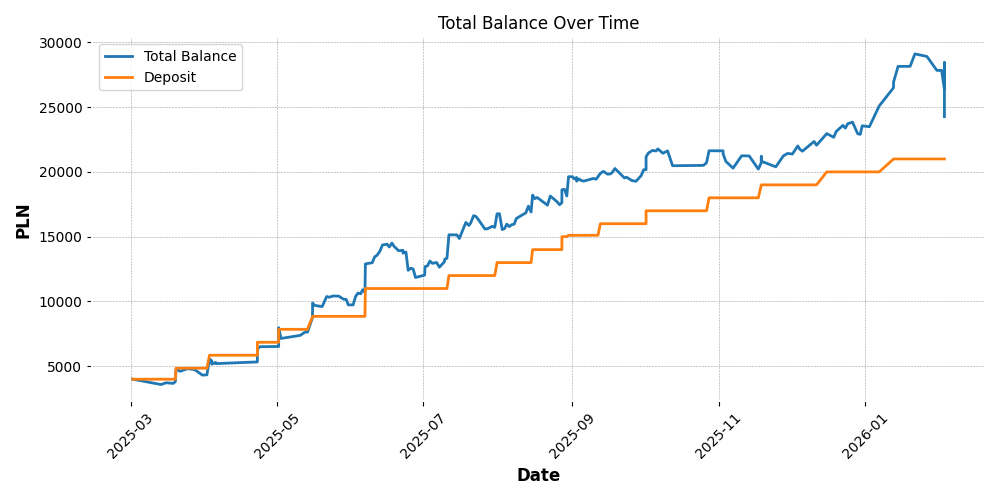
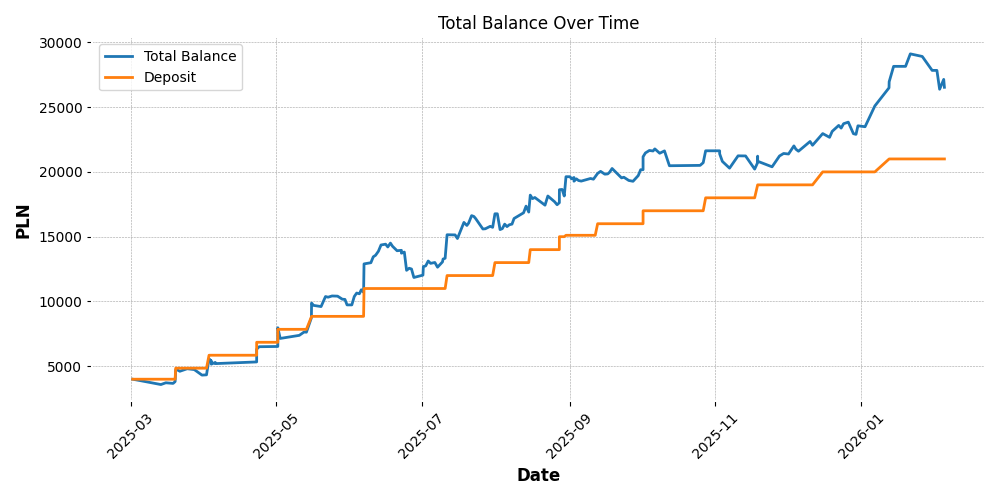
convert

diff --git a/templates/djangoapp/private.html b/templates/djangoapp/private.html
@@ -17,20 +17,37 @@
 
     <p>
         {{ form.deposit.label_tag }}<br>
-        {{ form.deposit }}
+
+        <input
+        type="text"
+        name="deposit"
+        value="{{ deposit|floatformat:0 }}"
+        readonly
+        >
     </p>
 
     <h3>Assets</h3>
 
-    <div id="assets">
-        {% for asset in assets %}
-        <div class="asset-row">
-            <input type="text" name="asset_name[]" value="{{ asset.name }}">
-            <input type="number" step="0.01" name="asset_value[]" value="{{ asset.value }}">
-        </div>
-        {% endfor %}
+<div id="assets">
+  {% for holding in assets %}
+    <div class="asset-row">
+      <input
+        type="text"
+        name="asset_name[]"
+        value="{{ holding.asset.name }}"
+        readonly
+      >
 
+      <input 
+        type="number"
+        step="any"
+        name="asset_value[]"
+        value="{{ holding.amount|floatformat:0 }}"
+      >
     </div>
+  {% endfor %}
+</div>
+
 
     <button type="button" onclick="addAsset()">+</button>
     <br><br>

diff --git a/djangoapp/views.py b/djangoapp/views.py
@@ -21,33 +21,27 @@ def private_view(request):
 
     assets_from_db = AssetHolding.objects.filter(user=request.user)
     profit = None
+    last_snapshot = PortfolioSnapshot.objects.last()
+    deposit = last_snapshot.deposit if last_snapshot else 0
 
     if request.method == "POST":
         form = DepositForm(request.POST)
 
         if form.is_valid():
-            deposit = form.cleaned_data["deposit"]
+            deposit = int(form.cleaned_data["deposit"])
 
             names = request.POST.getlist("asset_name[]")
             values = request.POST.getlist("asset_value[]")
 
             assets = {
-                name.strip(): float(value)
+                name.strip(): int(float(value))
                 for name, value in zip(names, values)
                 if name.strip() and value
             }
 
             apply_transactions(request.user, assets)
 
-            total = int(AssetHolding.objects.filter(
-                user=request.user
-            ).aggregate(
-                total=Sum("amount")
-            )["total"] or 0)
-            PortfolioSnapshot.objects.create(
-                total=total,
-                deposit=deposit
-            )
+            total = int(sum(assets.values()))
 
             save_to_csv(assets, total, deposit)
 
@@ -60,6 +54,7 @@ def private_view(request):
         "form": form,
         "assets": assets_from_db,
         "profit": profit,
+        "deposit": deposit,
         "chart_total_balance": plot_total_balance(),
         "chart_total_profit": plot_total_profit(),
         "chart_monthly_profit": plot_monthly_profit_candles(),

diff --git a/djangoapp/convert.py b/djangoapp/convert.py
@@ -1,23 +1,35 @@
-# djangoapp/convert.py
 from django.shortcuts import render
 from .forms import XYForm
-from pyproj import Proj, transform
+from pyproj import Transformer
 
-proj_2000 = Proj(init='epsg:2178')
-proj_wgs84 = Proj(init='epsg:4326')
+transformer = Transformer.from_crs(
+    "EPSG:2178",  # PUWG 2000
+    "EPSG:4326",  # WGS84
+    always_xy=True
+)
 
 def convert_view(request):
     result = None
-    if request.method == 'POST':
+
+    if request.method == "POST":
         form = XYForm(request.POST)
         if form.is_valid():
-            x = form.cleaned_data['x']
-            y = form.cleaned_data['y']
-            lat, lon = transform(proj_2000, proj_wgs84, x, y)
-            lon = round(lon, 5)
+            x = form.cleaned_data["x"]
+            y = form.cleaned_data["y"]
+
+            lon, lat = transformer.transform(y, x)
+
             lat = round(lat, 5)
-            result = f"{lon},{lat}"
+            lon = round(lon, 5)
+
+            # TU decydujesz o kolejności prezentacji
+            result = f"{lat}, {lon}"
+
     else:
         form = XYForm()
 
-    return render(request, 'djangoapp/main.html', {'form': form, 'result': result})
+    return render(
+        request,
+        "djangoapp/main.html",
+        {"form": form, "result": result}
+    )

diff --git a/djangoapp/migrations/0001_initial.py b/djangoapp/migrations/0001_initial.py
@@ -25,7 +25,7 @@ class Migration(migrations.Migration):
             name='AssetTransaction',
             fields=[
                 ('id', models.BigAutoField(auto_created=True, primary_key=True, serialize=False, verbose_name='ID')),
-                ('amount', models.FloatField()),
+                ('amount', models.IntegerField()),
                 ('transaction_type', models.CharField(choices=[('ADD', 'Add'), ('SUB', 'Subtract')], max_length=3)),
                 ('created_at', models.DateTimeField(auto_now_add=True)),
                 ('asset', models.ForeignKey(on_delete=django.db.models.deletion.CASCADE, to='djangoapp.asset')),
@@ -36,7 +36,7 @@ class Migration(migrations.Migration):
             name='AssetHolding',
             fields=[
                 ('id', models.BigAutoField(auto_created=True, primary_key=True, serialize=False, verbose_name='ID')),
-                ('amount', models.FloatField(default=0)),
+                ('amount', models.IntegerField(default=0)),
                 ('asset', models.ForeignKey(on_delete=django.db.models.deletion.CASCADE, to='djangoapp.asset')),
                 ('user', models.ForeignKey(on_delete=django.db.models.deletion.CASCADE, to=settings.AUTH_USER_MODEL)),
             ],

diff --git a/djangoapp/models.py b/djangoapp/models.py
@@ -12,7 +12,7 @@ class Asset(models.Model):
 class AssetHolding(models.Model):
     user = models.ForeignKey(User, on_delete=models.CASCADE)
     asset = models.ForeignKey(Asset, on_delete=models.CASCADE)
-    amount = models.FloatField(default=0)
+    amount = models.IntegerField(default=0)
 
     class Meta:
         unique_together = ("user", "asset")
@@ -32,7 +32,7 @@ class AssetTransaction(models.Model):
 
     user = models.ForeignKey(User, on_delete=models.CASCADE)
     asset = models.ForeignKey(Asset, on_delete=models.CASCADE)
-    amount = models.FloatField()
+    amount = models.IntegerField()
     transaction_type = models.CharField(max_length=3, choices=TRANSACTION_TYPES)
     created_at = models.DateTimeField(auto_now_add=True)
 
@@ -42,5 +42,5 @@ class AssetTransaction(models.Model):
 
 class PortfolioSnapshot(models.Model):
     created_at = models.DateTimeField(auto_now_add=True)
-    total = models.FloatField()
-    deposit = models.FloatField()
+    total = models.IntegerField()
+    deposit = models.IntegerField()

diff --git a/djangoapp/migrations/0002_portfoliosnapshot.py b/djangoapp/migrations/0002_portfoliosnapshot.py
@@ -15,8 +15,8 @@ class Migration(migrations.Migration):
             fields=[
                 ('id', models.BigAutoField(auto_created=True, primary_key=True, serialize=False, verbose_name='ID')),
                 ('created_at', models.DateTimeField(auto_now_add=True)),
-                ('total', models.FloatField()),
-                ('deposit', models.FloatField()),
+                ('total', models.IntegerField()),
+                ('deposit', models.IntegerField()),
             ],
         ),
     ]

diff --git a/djangoapp/forms.py b/djangoapp/forms.py
@@ -1,8 +1,8 @@
 from django import forms
 
 class XYForm(forms.Form):
-    x = forms.FloatField(label='Y')
-    y = forms.FloatField(label='X')
+    x = forms.FloatField(label='X')
+    y = forms.FloatField(label='Y')
 
 
 
